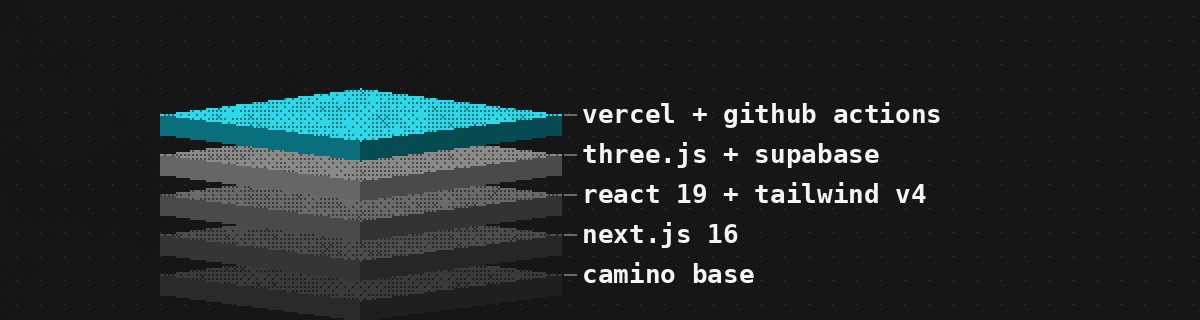
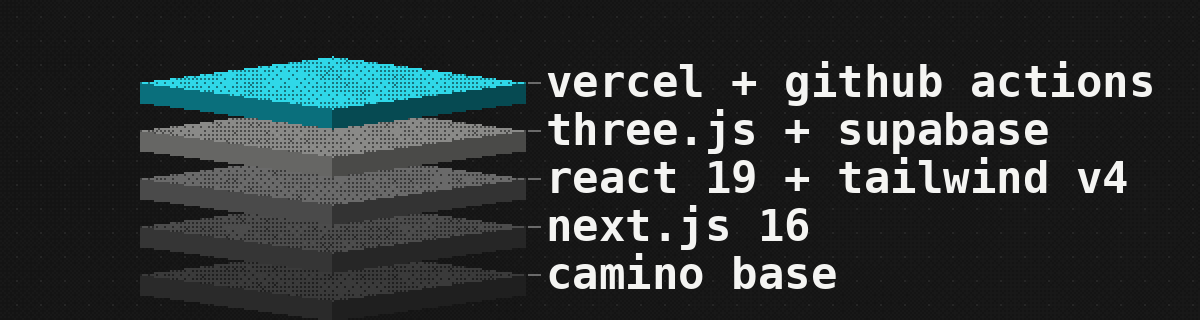
README round 5 to main: phone-size text for stack and workflow art
Brings the regenerated stack and workflow art from integration (#638) onto
main. Only README.md, docs/readme/ and scripts/readme-art/ change. Built on
top of origin/main, no history rewrite.

Claude-Session: https://claude.ai/code/session_01Pmx9dVyQKEsummtyqJCQsj

Changed region(s): [[0.0925, 0.1875, 0.9558, 0.9375], [0.1233, 0.8438, 0.1542, 0.875]]

diff --git a/scripts/readme-art/generate.py b/scripts/readme-art/generate.py
@@ -723,7 +723,10 @@ def _dither_face(im, poly, ramp, tex):
 
 
 def stack_art():
-    """Layered slabs, one per part of the stack, bottom (base) to top (deploy)."""
+    """Layered slabs, one per part of the stack, bottom (base) to top (deploy).
+
+    Labels are sized for a phone: at 390px wide the piece is about 0.3x its
+    pixel size, so the text is drawn large."""
     W, H = 600, 160
     yy, xx = grid(H, W)
     field = 0.04 + 0.1 * fbm(H, W, 91, 30, 3) + 0.08 * (xx / W)
@@ -740,7 +743,7 @@ def stack_art():
         ("three.js + supabase", "#8a8a88", "#666664", "#4a4a48"),
         ("vercel + github actions", CYAN, "#0a6f7c", "#064a52"),
     ]
-    cx, w, h, t, step, base = 180, 100, 26, 10, 20, 124
+    cx, w, h, t, step, base = 166, 96, 26, 10, 24, 124
     labels = []
     for k, (label, top_c, left_c, right_c) in enumerate(layers):
         top_y = base - k * step
@@ -757,7 +760,7 @@ def stack_art():
         labels.append((label, UR[0], UR[1]))
     im = upscale(im)
     d = ImageDraw.Draw(im)
-    f = font(26, mono=True)
+    f = font(44, mono=True)
     for label, x, y in labels:
         d.line([x * 2 + 4, y * 2, x * 2 + 16, y * 2], fill=hx("#6a6a6a"), width=2)
         d.text((x * 2 + 22, y * 2), label, font=f, fill=hx(PAPER), anchor="lm")
@@ -765,8 +768,9 @@ def stack_art():
 
 
 def workflow_art():
-    """pull request -> integration (solid), integration -> release (gated, dashed)."""
-    W, H = 600, 140
+    """Vertical flow: pull request into integration (solid), then integration to
+    release (gated, dashed). Stacked vertically so the text can be large on phones."""
+    W, H = 600, 284
     yy, xx = grid(H, W)
     field = 0.03 + 0.09 * fbm(H, W, 57, 28, 3) + 0.05 * (yy / H)
     im = to_image(dither(np.clip(field, 0, 1), ["#141414", "#181818", "#202020", "#2a2a2a"]))
@@ -774,35 +778,41 @@ def workflow_art():
     for gy in range(8, H, 12):
         for gx in range(8, W, 12):
             d.point((gx, gy), fill=hx("#262626"))
-    top, bot, mid = 36, 116, 76
+    bx0, bx1, bh = 90, 510, 64
+    tops = [16, 104, 192]
     boxes = [
-        ("pull request", "small and reviewed", 24, 176),
-        ("integration", "merging deploys nothing", 222, 378),
-        ("release", "vercel builds only this", 424, 576),
+        ("pull request", "small and reviewed"),
+        ("integration", "merging deploys nothing"),
+        ("release", "vercel builds only this"),
     ]
     c = hx(CYAN)
-    for _, _, x0, x1 in boxes:
-        d.rectangle([x0, top, x1, bot], fill=hx("#141414"), outline=hx("#2a2a2a"))
-        for x, y, dx, dy in [(x0, top, 1, 1), (x1, top, -1, 1), (x0, bot, 1, -1), (x1, bot, -1, -1)]:
-            d.line([x, y, x + dx * 10, y], fill=c)
-            d.line([x, y, x, y + dy * 10], fill=c)
+    for ty in tops:
+        d.rectangle([bx0, ty, bx1, ty + bh], fill=hx("#141414"), outline=hx("#2a2a2a"))
+        for x, y, dx, dy in [(bx0, ty, 1, 1), (bx1, ty, -1, 1),
+                             (bx0, ty + bh, 1, -1), (bx1, ty + bh, -1, -1)]:
+            d.line([x, y, x + dx * 12, y], fill=c, width=1)
+            d.line([x, y, x, y + dy * 12], fill=c, width=1)
+    cxm = 300
     # Solid arrow: pull request into integration.
-    d.line([176, mid, 212, mid], fill=c, width=1)
-    d.polygon([(222, mid), (212, mid - 4), (212, mid + 4)], fill=c)
+    d.line([cxm, tops[0] + bh, cxm, tops[1] - 6], fill=c, width=2)
+    d.polygon([(cxm, tops[1]), (cxm - 5, tops[1] - 9), (cxm + 5, tops[1] - 9)], fill=c)
     # Gated, dashed arrow: integration to release.
-    for x in range(380, 414, 7):
-        d.line([x, mid, x + 4, mid], fill=c)
-    d.line([401, 60, 401, 92], fill=c, width=2)
-    d.polygon([(424, mid), (414, mid - 4), (414, mid + 4)], fill=c)
+    y0, y1 = tops[1] + bh, tops[2]
+    for y in range(y0 + 2, y1 - 5, 7):
+        d.line([cxm, y, cxm, y + 4], fill=c, width=2)
+    gate = (y0 + y1) // 2
+    d.line([cxm - 10, gate, cxm + 10, gate], fill=c, width=2)
+    d.polygon([(cxm, y1), (cxm - 5, y1 - 9), (cxm + 5, y1 - 9)], fill=c)
     im = upscale(im)
     d = ImageDraw.Draw(im)
-    tf, sf = font(34), font(18, mono=True)
-    for title, sub, x0, _ in boxes:
-        d.text((2 * (x0 + 16), 2 * (top + 12)), title, font=tf, fill=hx(PAPER))
-        d.text((2 * (x0 + 16), 2 * (top + 56)), sub, font=sf, fill=hx("#9aa7af"))
-    d.text((2 * 401, 2 * 24), "deploy only when asked", font=sf, fill=c, anchor="mm")
-    d.text((2 * 300, 2 * 130), "release moves forward only on a deploy", font=sf,
-           fill=hx("#6a6a6a"), anchor="mm")
+    tf, sf = font(48), font(40, mono=True)
+    for (title, sub), ty in zip(boxes, tops):
+        d.text((2 * (bx0 + 20), 2 * (ty + 8)), title, font=tf, fill=hx(PAPER))
+        d.text((2 * (bx0 + 20), 2 * (ty + 36)), sub, font=sf, fill=hx("#9aa7af"))
+    d.text((2 * (cxm + 22), 2 * gate), "deploy only when asked", font=font(34, mono=True),
+           fill=c, anchor="lm")
+    d.text((2 * cxm, 2 * 274), "release moves forward only on a deploy", font=font(34, mono=True),
+           fill=hx("#7a7a78"), anchor="mm")
     return im
 
 
